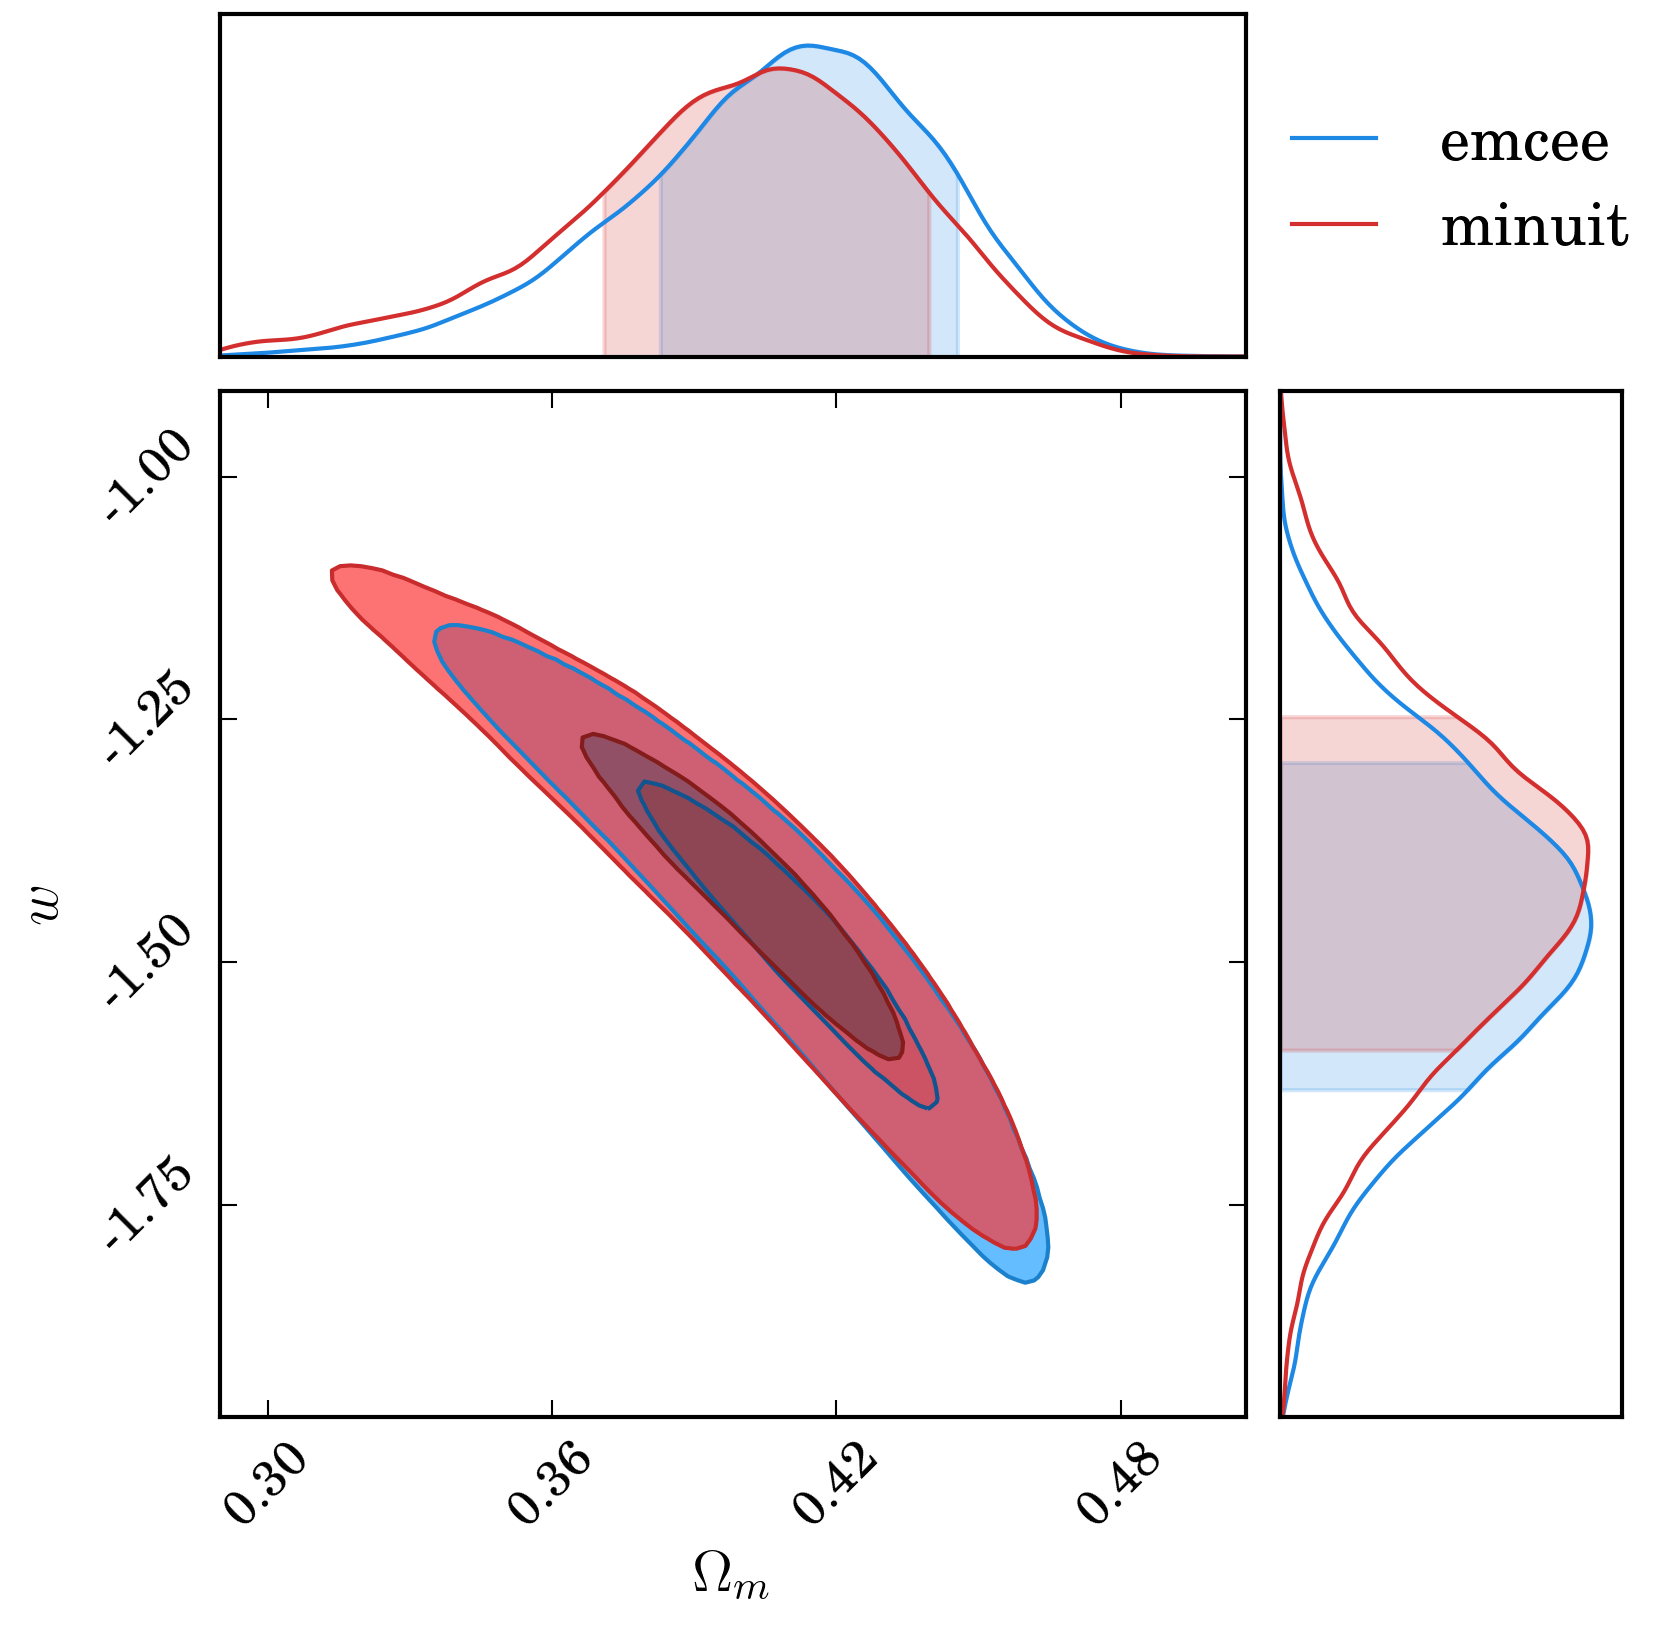
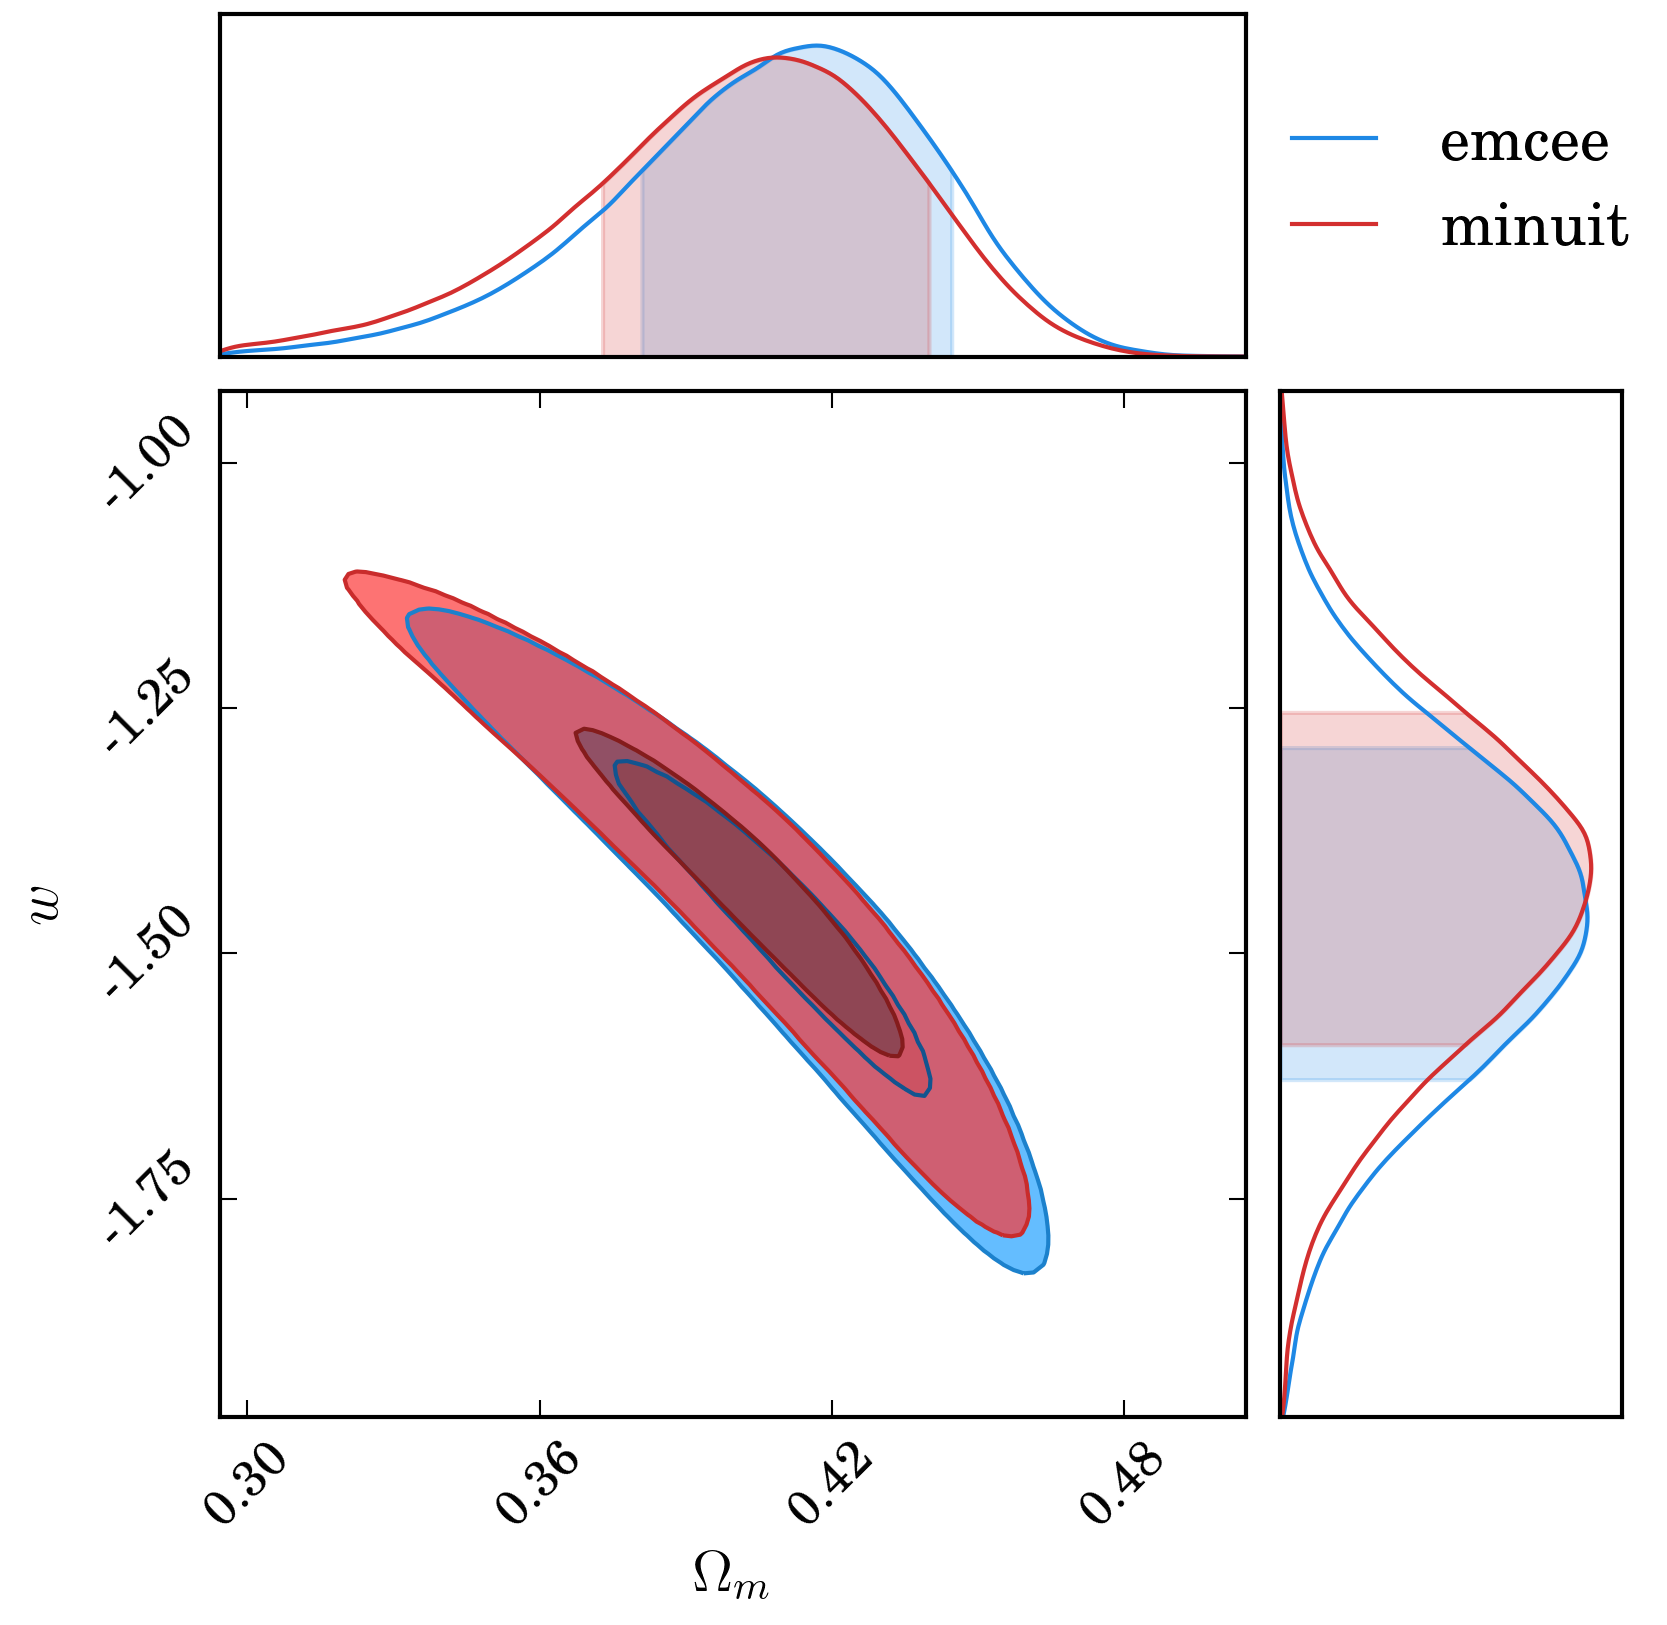
Bigger chains. Smoother plots.

diff --git a/dessn/investigations/gaussianity/__init__.py b/dessn/investigations/gaussianity/__init__.py
@@ -204,9 +204,9 @@ of 4. The output surfaces for this are shown below, and we can see a difference
 in both the recovered value for :math:`\Omega_m` and :math:`w`. However, the
 difference in recovered values is not significant in this example, where we find
 for ``minuit`` summary
-statistics :math:`\Omega_m = 0.415^{+0.026}_{-0.040},\ w= -1.45^{+0.19}_{-0.14}`
+statistics :math:`\Omega_m = 0.411^{+0.028}_{-0.038},\ w= -1.42^{+0.16}_{-0.17}`
 and for the ``emcee`` summary statistics we
-find :math:`\Omega_m = 0.417^{+0.027}_{-0.038},\ w=-1.44^{+0.16}_{-0.18}`.
+find :math:`\Omega_m = 0.416^{+0.029}_{-0.035},\ w=-1.45^{+0.16}_{-0.18}`.
 
 
  .. figure::     ../dessn/investigations/gaussianity/output/comparison5.png

diff --git a/dessn/investigations/gaussianity/simple_cosmology_test.py b/dessn/investigations/gaussianity/simple_cosmology_test.py
@@ -52,7 +52,7 @@ if __name__ == "__main__":
         fitter_minuit = SimpleCosmologyFitter("minuit fit %d" % cut, zs, mu_minuit, std_minuit)
 
         sampler = EnsembleSampler(temp_dir=temp_dir2, save_interval=60,
-                                  num_steps=10000, num_burn=2000)
+                                  num_steps=80000, num_burn=2000)
         from chainconsumer import ChainConsumer
         c = ChainConsumer()
         c = fitter_mcmc.fit(sampler=sampler, chain_consumer=c)
